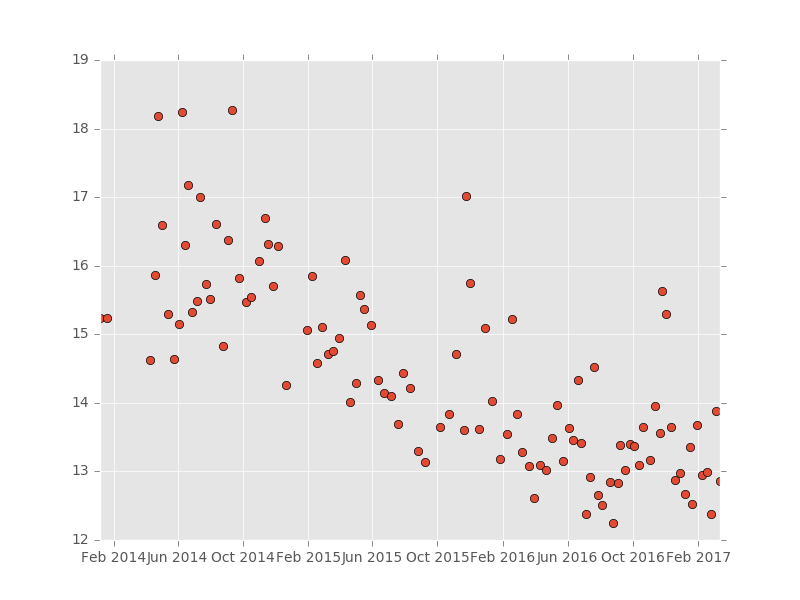
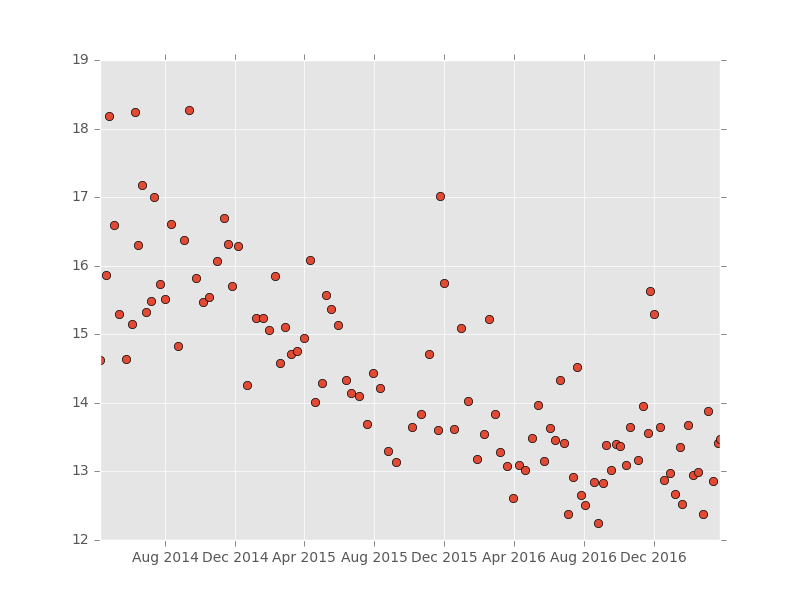
python linear regression update

diff --git a/mpg_project/mpg_analysis2.py b/mpg_project/mpg_analysis2.py
@@ -5,6 +5,7 @@ import sys
 import pandas as pd
 import pandas.io.sql
 import numpy as np
+import statsmodels.api as sm
 import matplotlib
 import matplotlib.pyplot as plt
 plt.style.use('ggplot')
@@ -24,9 +25,19 @@ mpgs=pd.DataFrame(gas_data, columns=['mpg']) #mpg column, or just gas_data['mpg'
 
 print(np.mean(mpgs))
 
-plt.plot_date(matplotlib.dates.date2num(gas_data['thedate']), gas_data['mpg'])
+#plt.plot_date(matplotlib.dates.date2num(gas_data['thedate']), gas_data['mpg'])
+
+plt.scatter(gas_data['mpd'], gas_data['mpg'])
 
 plt.show()
+
+#linear regression
+mpg_data = gas_data['mpg']
+mpd_data = gas_data['mpd']
+mpd = sm.add_constant(mpd_data)
+regression1 = sm.OLS(mpg_data, mpd_data).fit()
+
+print(regression1.summary())
 
 
 
